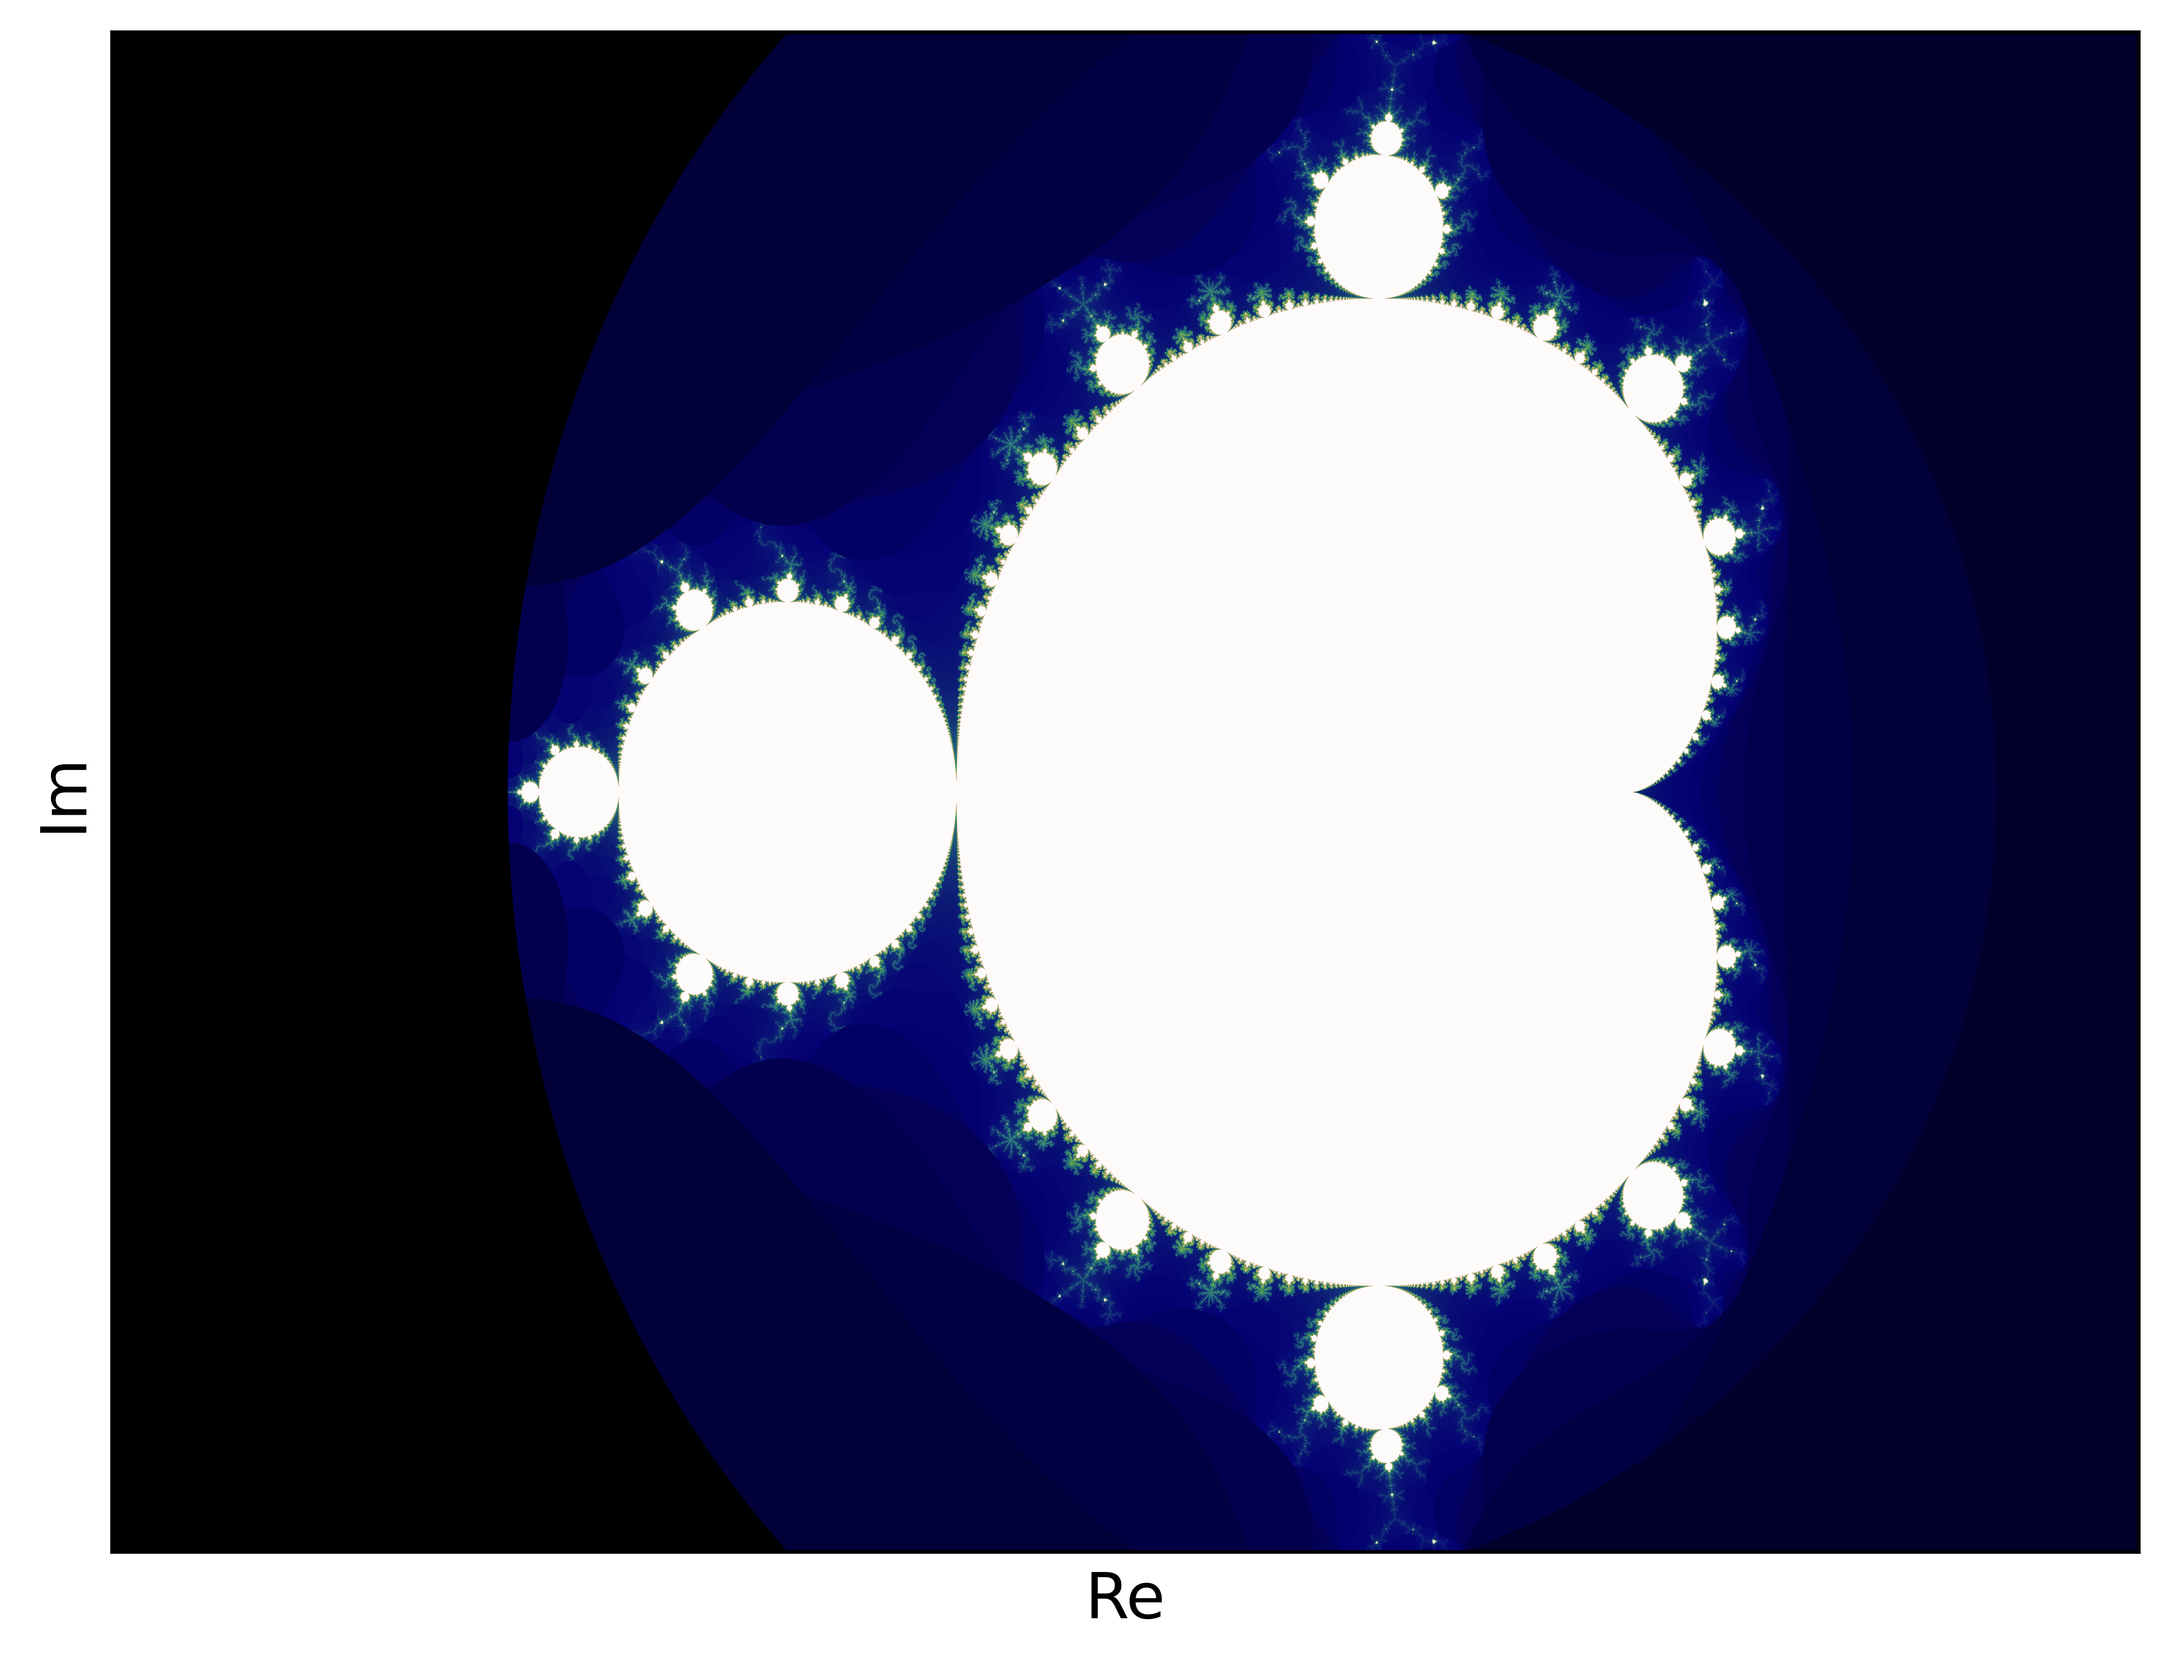
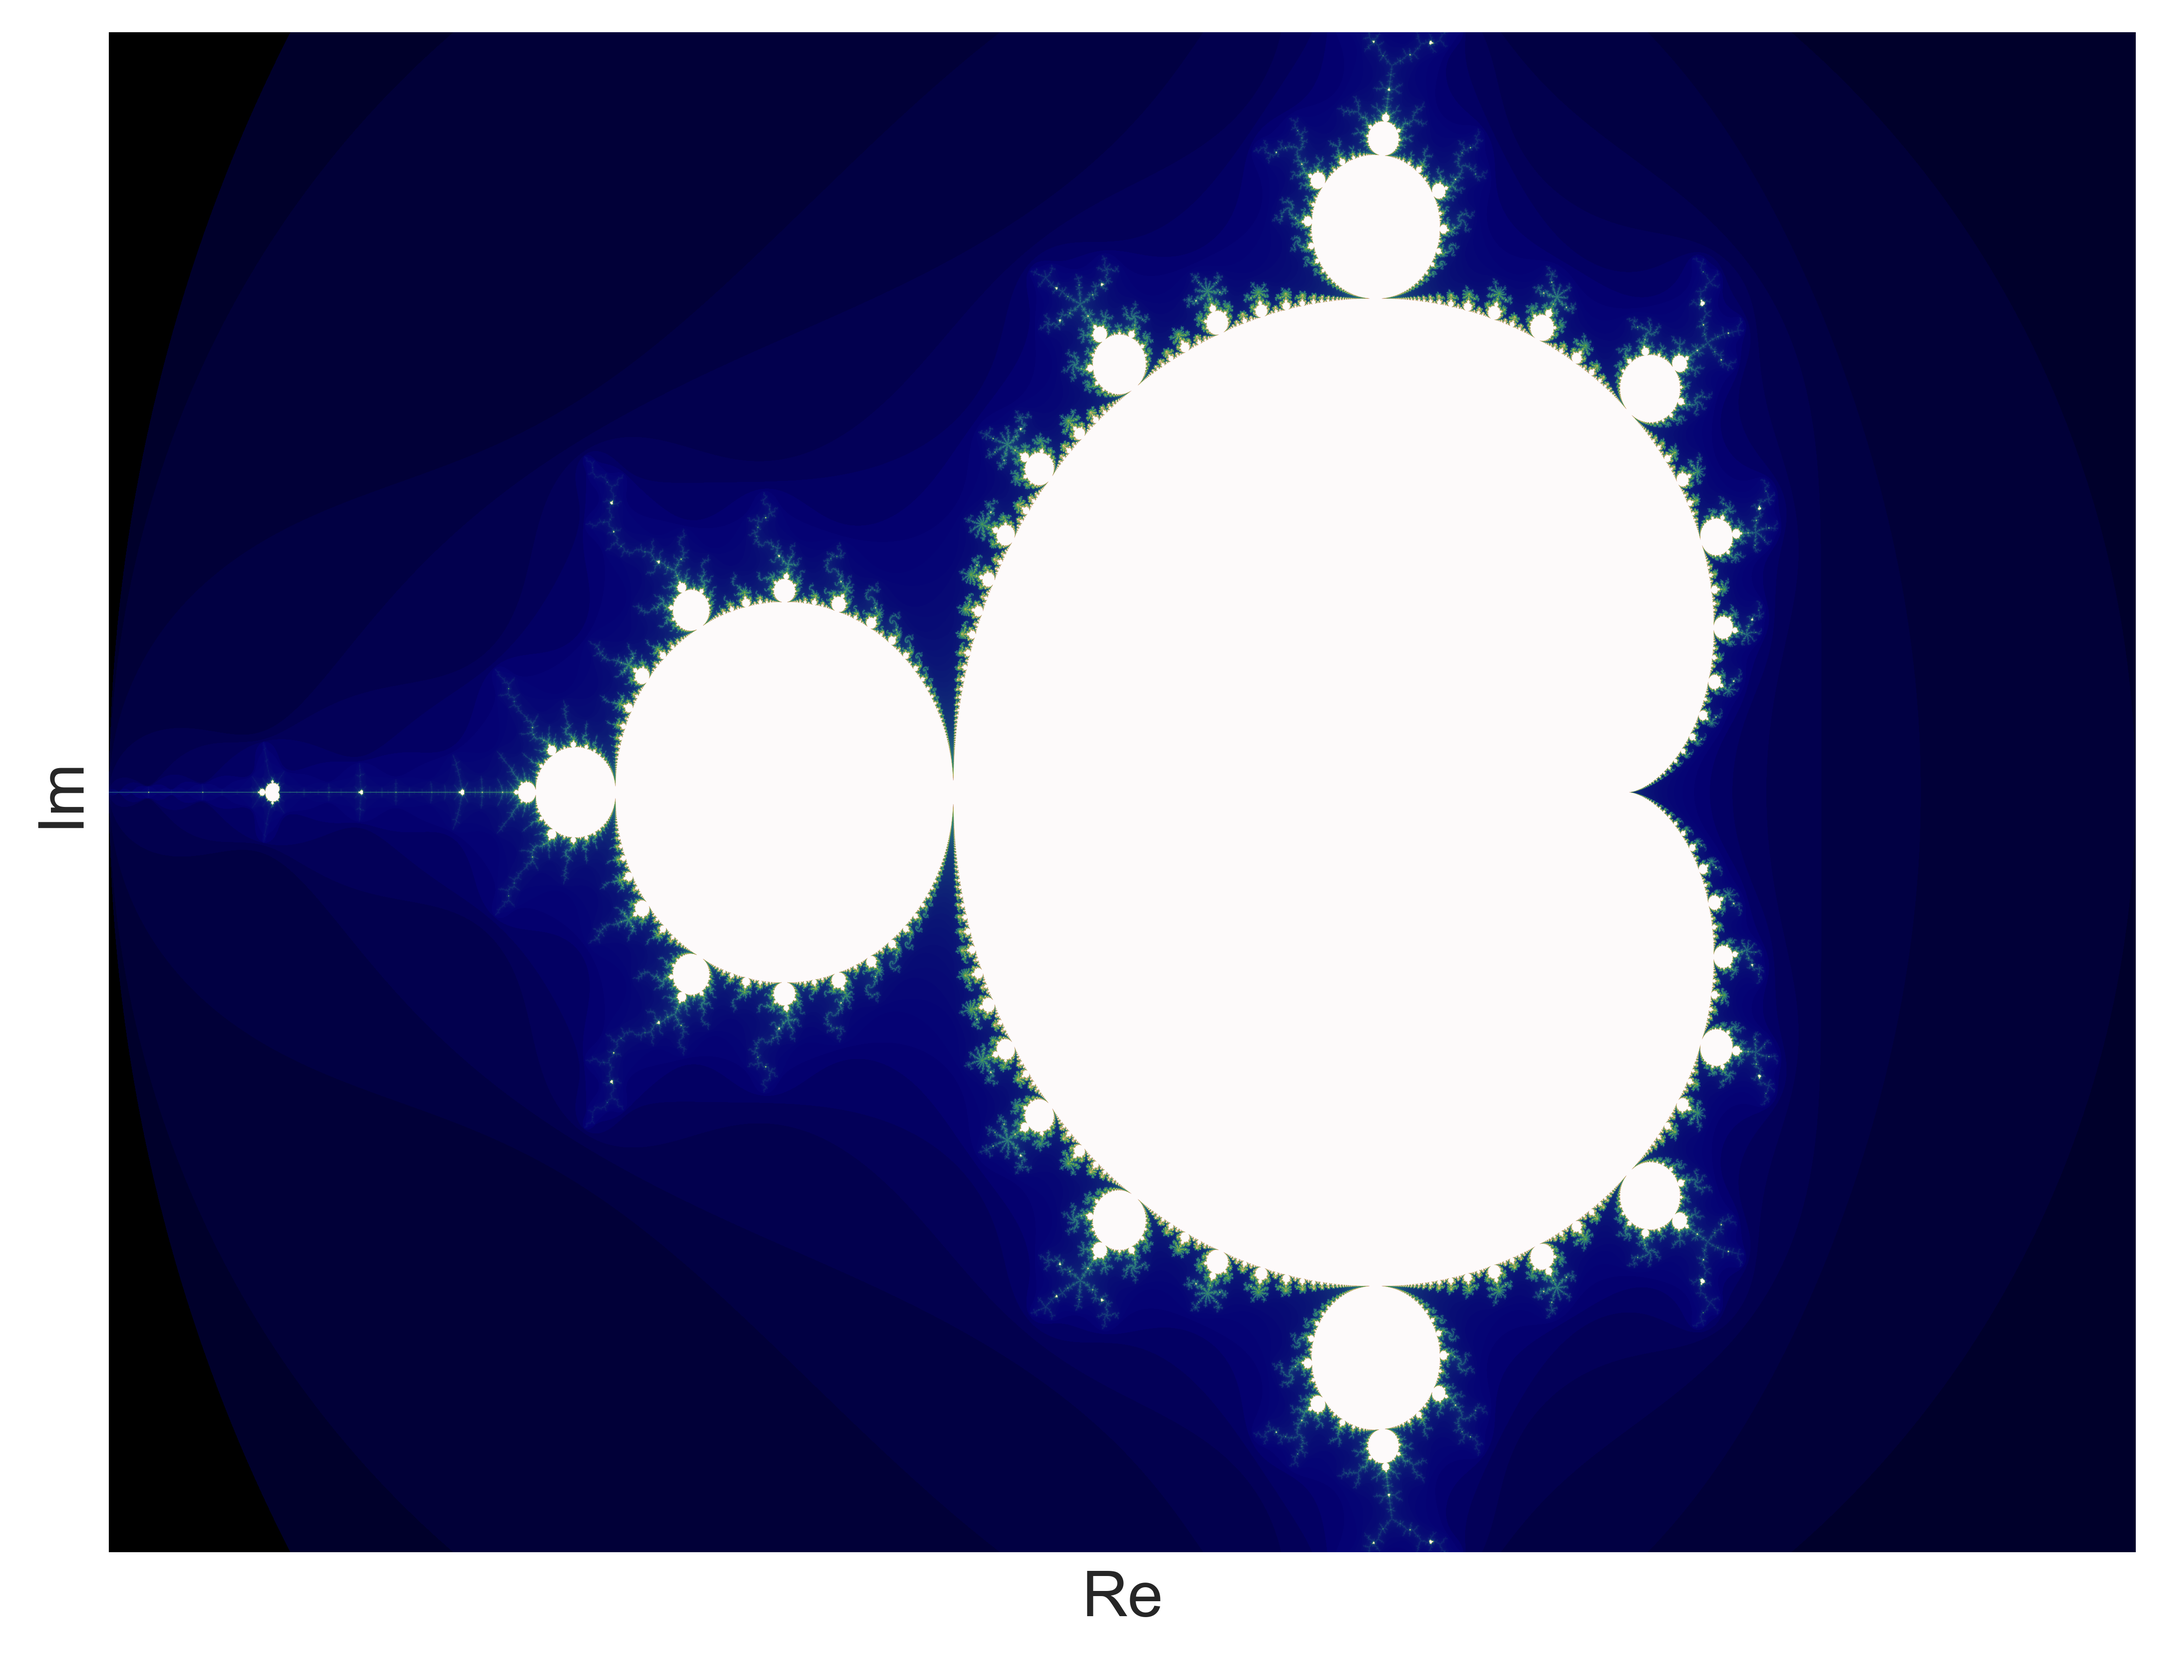
plot
higher resolution plot

diff --git a/Plot_mandel.py b/Plot_mandel.py
@@ -15,8 +15,47 @@ import scipy.stats as st
 import pylab 
 from numpy import genfromtxt
 plt.style.use('seaborn')
+from skopt.space import Space
+from skopt.sampler import Lhs
+from skopt.sampler import Hammersly
 
 #%%
+#%#%#%#%#%#%#%#%#%#%#%#%#%#%#%#% FUNCTIONS outside of the class #%#%#%#%#%#%#%#%#%#%#%#%#%%#%#%#%%#%#%#%%#
+def calculate_confidence_interval(matrix):
+
+    cis = np.ones(shape = (1,2))
+
+    for i in matrix:
+        data = i 
+        interval = np.array(st.t.interval(alpha=0.95, df=(num_runs)-1, loc=np.mean(data), scale=st.sem(data)))
+        interval = interval.reshape(1,2)
+        cis = np.vstack((cis, interval))
+
+    return cis
+
+
+def Hammersly_sampling_method(minx, maxx, miny, maxy, numsamples):
+    real_min = minx
+    real_max = maxx
+    imaginary_min = miny
+    imaginary_max = maxy
+
+    space = Space([(real_min, real_max), (imaginary_min, imaginary_max)])
+
+    hammersly = Hammersly()
+
+    samples = hammersly.generate(space.dimensions, numsamples)
+
+    samps = np.array(samples, dtype = np.float64)
+
+    samps = samps.view(np.complex_)
+
+    samps = samps.reshape(1, 1000)
+
+    return samps    
+
+#%%    
+
 #creating the mandelBort image firstly 
 # adapted from http://numba.pydata.org/numba-doc/0.35.0/user/examples.html
 
@@ -58,7 +97,7 @@ class mandeL_plot:
         z = 0.0j
         for i in range(iterations):
             z = z*z + c 
-            if (z.real *z.real + z.imag *z.imag >= 2):
+            if (z.real *z.real + z.imag *z.imag >= 4):
                 return i
         return 255
     
@@ -419,27 +458,48 @@ class mandeL_plot:
 
             areas.append(area_mandel)
 
-        return areas         
+        return areas       
+
+    def compute_area_Hammersley(self, num_runs, nsamples, numiterations):
+
+        """this function generates a list of the computed areas for a number of iterations,
+        samples and number of runs 
+
+        Returns:
+            list(float32): generates and returns the list of the computed areas for all runs 
+        """
+
+        real_min = self.minx
+        real_max = self.maxx
+        imaginary_min = self.miny
+        imaginary_max = self.maxy
+
+        areas = []
+
+        for i in range(num_runs):
+            in_mandel = 0
+            total_drawn = nsamples
+            area_T =  np.abs((real_min - real_max))*np.abs(imaginary_max - imaginary_min)
+
+            samples = Hammersly_sampling_method(minx, maxx, miny, maxy, nsamples)
+
+            for c in samples:
+                if (self.within_mandel(numiterations, c)):
+                    in_mandel += 1
+
+            ratio_inmandel = (in_mandel/total_drawn)
+            area_mandel = ratio_inmandel*area_T        
+
+            areas.append(area_mandel)
+
+        return areas
+
         
         
-
-
+#%%
+#%#%#%#%#%#%#% trying the lhs sampling optimizations #%#%%#%#%#%#%#%#%#%#
 
 #%%
-#%#%#%#%#%#%#%#%#%#%#%#%#%#%#%#% FUNCTIONS outside of the class #%#%#%#%#%#%#%#%#%#%#%#%#%%#%#%#%%#%#%#%%#
-def calculate_confidence_interval(matrix):
-
-    cis = np.ones(shape = (1,2))
-
-    for i in matrix:
-        data = i 
-        interval = np.array(st.t.interval(alpha=0.95, df=(num_runs)-1, loc=np.mean(data), scale=st.sem(data)))
-        interval = interval.reshape(1,2)
-        cis = np.vstack((cis, interval))
-
-    return cis
-
-
 #%%
 #%#%#%#%#%#%#%#%#%#%#%#%#%#%#%#%#%#%#%#%#% Creating the mandel brot set plot #%#%#%#%#%#%#%#%#%#%#%#%#%#
 '''Creating the mandel brot set plot'''
@@ -464,8 +524,8 @@ ax.set_xticks([])
 ax.set_yticks([])
 ax.set_ylabel('Im', fontsize = 14)
 ax.set_xlabel("Re", fontsize = 14)
-plt.show()
 plt.savefig("mandel_plot.png", dpi = 700,  bbox_inches = 'tight', format = 'png' )
+plt.show()
 #%%
 
 #%#%#%#%#%#%##%#%#%##%#%#%# creating a second plot which zooms in on the intersting areas #%#%#%#%#%#%#%#%#
@@ -510,6 +570,7 @@ image = np.zeros((10000 * 2,  10000* 2), dtype = np.uint32)
 its = 1000
 
 mandel= mandeL_plot(RE_START, RE_END, IM_START, IM_END, image, its)
+#%%
 
 #%%
 #%#%#%#%#%#%#%#%#%#%#%#%# CHECKING THE NUMBER OF SAMPLES REQUIRED #%#%#%#%#%#%#%#%#%#%#%#
@@ -955,3 +1016,20 @@ plt.ylabel('time[s] for computation of area', fontsize = 14)
 plt.title('Computational cost assocaited with random sampling', fontsize = 16)
 # %%
 
+samps = Hammersly_sampling_method(RE_START, RE_END, IM_START, IM_END, 1000)
+
+x = [ele.real for ele in samps]
+y = [ele.imag for ele in samps]
+
+#%%
+kwargs = dict(alpha=0.3)
+fig, ax = plt.subplots(figsize = (8,8))
+ax.hist(x, label = 'real')
+ax.hist(y, label = 'imaginary')
+ax.set_xlabel('values', fontsize = 14)
+ax.set_ylabel('count', fontsize = 14)
+plt.title('histogram of Latin hypercube sampling', fontsize = 16)
+plt.legend(fontsize = 12)
+
+
+# %%
